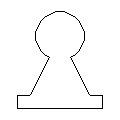
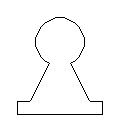
modified piece images

Changed region(s): [[0.125, 0.075, 0.875, 0.85], [0.125, 0.9, 0.875, 0.975]]

diff --git a/app/static/js/Pieces/BPawn.js b/app/static/js/Pieces/BPawn.js
@@ -1,7 +1,7 @@
 class BPawn extends Piece {
     constructor(x, y, flip) {
         super(x, y, flip);
-        this.link = 'https://user-images.githubusercontent.com/43048491/87862719-321bae00-c921-11ea-940c-4ae7ab173480.png';
+        this.link = 'https://user-images.githubusercontent.com/43048491/89712862-9ac6db00-d961-11ea-9376-65d837ef867a.png';
         this.node = setPiece(this.svgX(), this.svgY(), this.link, this);
         this.pawnMoves();
         this.doubleMove = this.y === 6 && flip || this.y === 1 && !flip;

diff --git a/app/static/js/Pieces/WPawn.js b/app/static/js/Pieces/WPawn.js
@@ -1,7 +1,7 @@
 class WPawn extends Piece {
     constructor(x, y, flip) {
         super(x, y, flip);
-        this.link = 'https://user-images.githubusercontent.com/43048491/87862699-13b5b280-c921-11ea-9fd3-55836df163f6.png';
+        this.link = 'https://user-images.githubusercontent.com/43048491/89712845-7bc84900-d961-11ea-9d0d-78c54efc07e5.png';
         this.node = setPiece(this.svgX(), this.svgY(), this.link, this);
         this.pawnMoves();
         this.doubleMove = this.y === 1 && flip || this.y === 6 && !flip;

diff --git a/app/static/js/Pieces/WKing.js b/app/static/js/Pieces/WKing.js
@@ -1,7 +1,7 @@
 class WKing extends Piece {
     constructor(x, y, flip) {
         super(x, y, flip);
-        this.link = 'https://user-images.githubusercontent.com/43048491/87862562-802fb200-c91f-11ea-87a1-025bcc2d948f.png';
+        this.link = 'https://user-images.githubusercontent.com/43048491/89712851-88e53800-d961-11ea-9bce-4b9e0653c1d9.png';
         this.node = setPiece(this.x * 100, this.y * 100, this.link, this);
         this.parallelMoves(true);
         this.diagonalMoves(true);

diff --git a/app/static/js/Pieces/BKing.js b/app/static/js/Pieces/BKing.js
@@ -1,7 +1,7 @@
 class BKing extends Piece {
     constructor(x, y, flip) {
         super(x, y, flip);
-        this.link = 'https://user-images.githubusercontent.com/43048491/87862650-56c35600-c920-11ea-9d5a-b2d741ecddd8.png';
+        this.link = 'https://user-images.githubusercontent.com/43048491/89712870-a7e3ca00-d961-11ea-95ec-dd4b20c10f42.png';
         this.node = setPiece(this.svgX(), this.svgY(), this.link, this);
         this.parallelMoves(true);
         this.diagonalMoves(true);

diff --git a/app/static/js/Pieces/WRook.js b/app/static/js/Pieces/WRook.js
@@ -1,7 +1,7 @@
 class WRook extends Piece {
     constructor(x, y, flip) {
         super(x, y, flip);
-        this.link = 'https://user-images.githubusercontent.com/43048491/87862968-d999e000-c923-11ea-9ad5-44f6d26e39fa.png';
+        this.link = 'https://user-images.githubusercontent.com/43048491/89712835-6c490000-d961-11ea-933d-b355a6249aad.png';
         this.node = setPiece(this.x * 100, this.y * 100, this.link, this);
         this.parallelMoves();
     }

diff --git a/app/static/js/Pieces/BRook.js b/app/static/js/Pieces/BRook.js
@@ -1,7 +1,7 @@
 class BRook extends Piece {
     constructor(x, y, flip) {
         super(x, y, flip);
-        this.link = 'https://user-images.githubusercontent.com/43048491/87862792-f0d7ce00-c921-11ea-954d-96232b73ec09.png';
+        this.link = 'https://user-images.githubusercontent.com/43048491/89712879-b4682280-d961-11ea-83ea-e2e699f29b19.png';
         this.node = setPiece(this.svgX(), this.svgY(), this.link, this);
         this.parallelMoves();
     }
